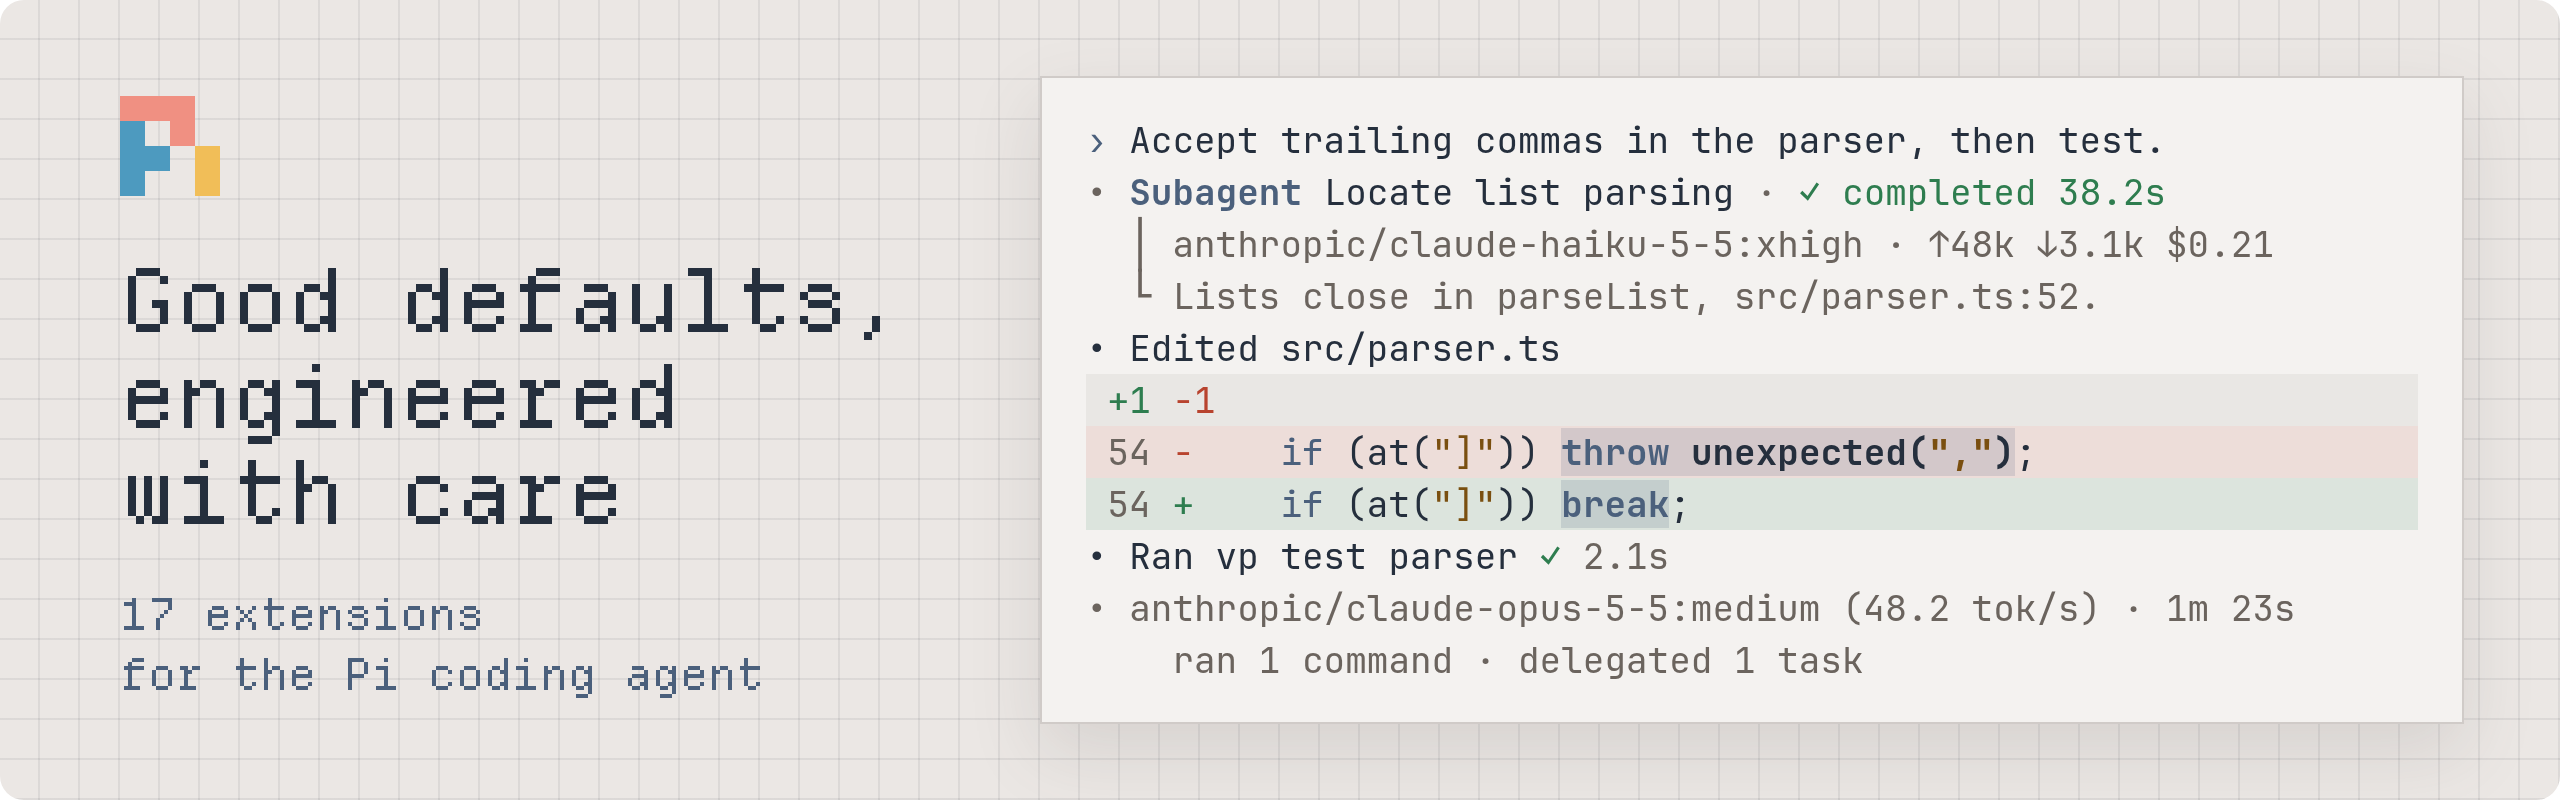
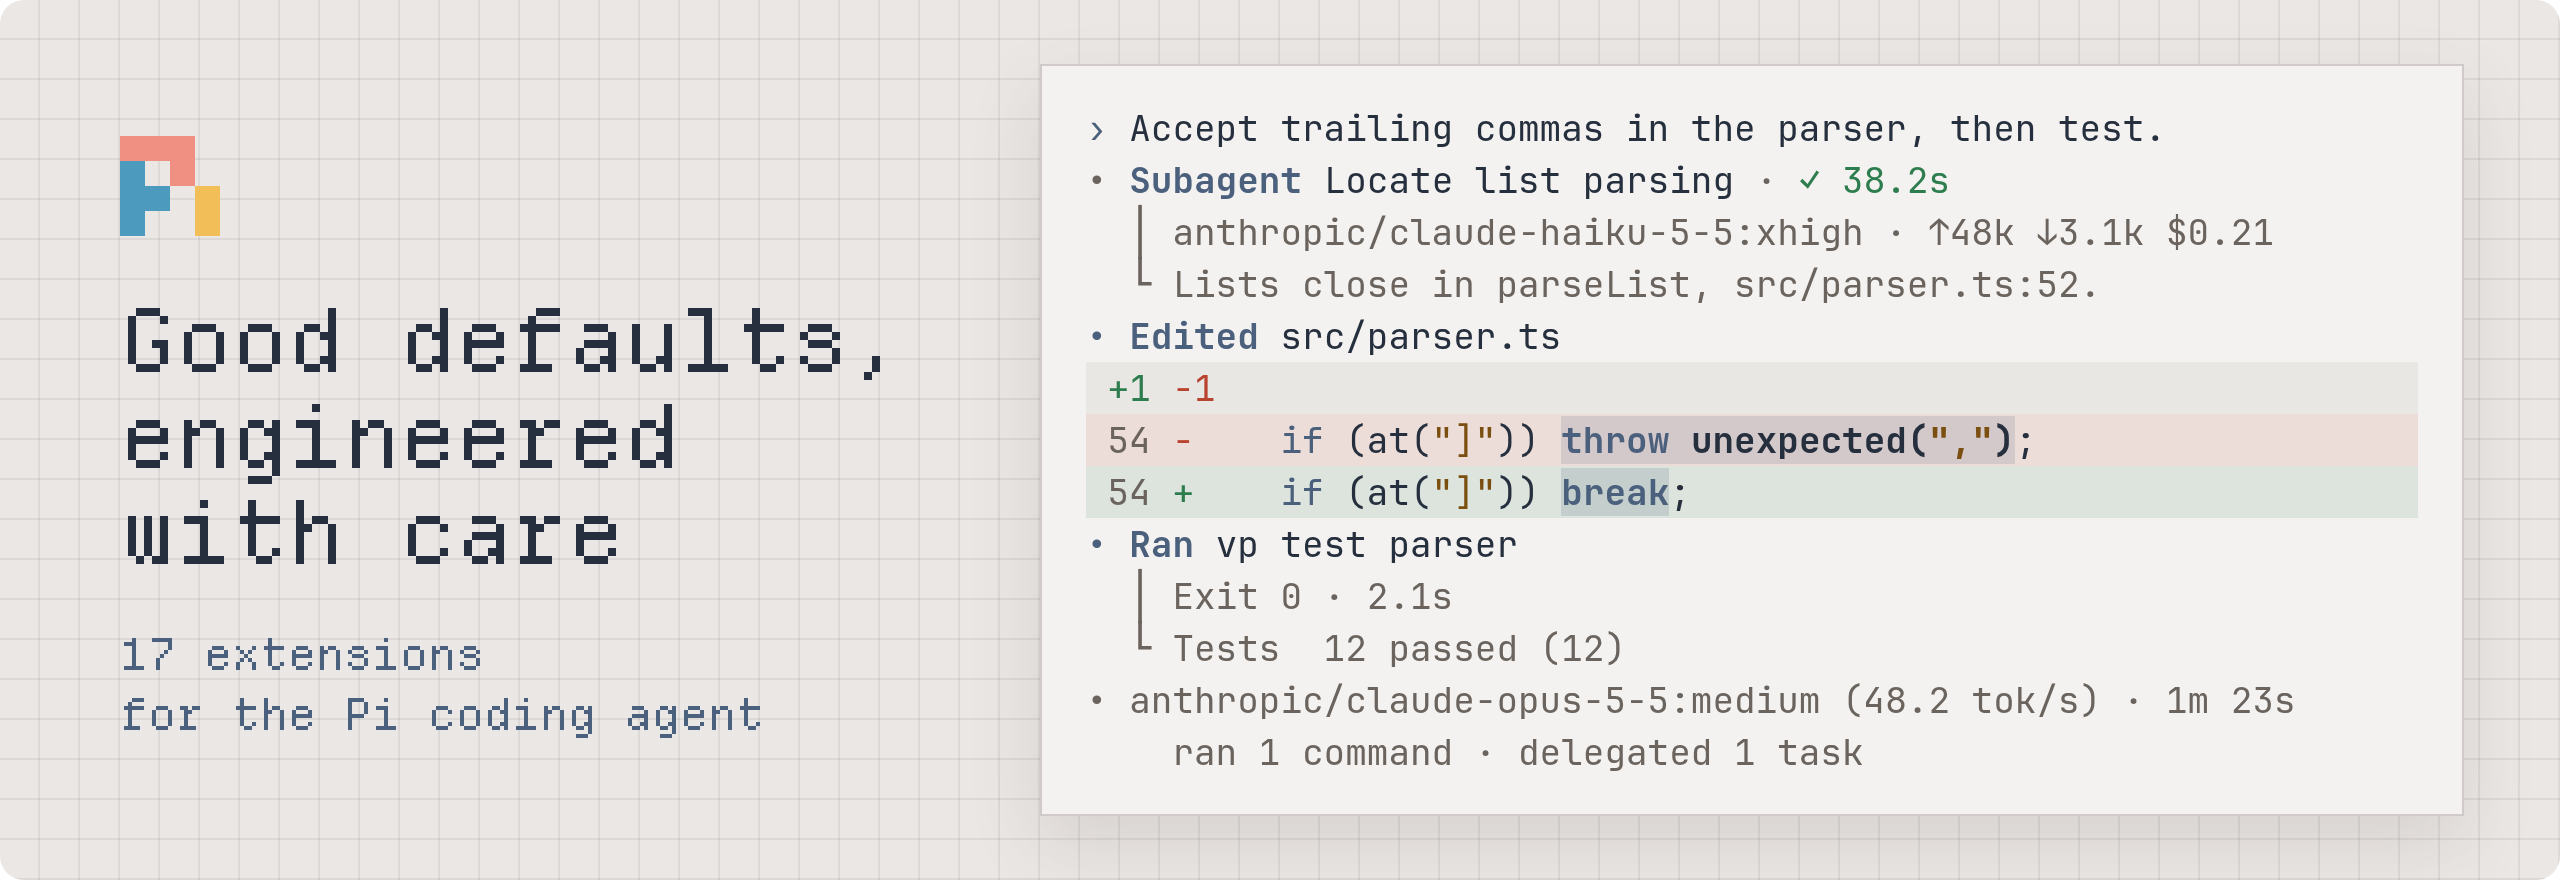
fix(website): emit the dark theme colour and show current output
- Both `theme-color` tags are emitted after `<HeadContent />`.
- The hero samples and extension examples show current output, and both hero images are regenerated.
- The shell-highlight background uses `bg-bg/40` for 5:1 contrast.

diff --git a/docs/assets/hero.html b/docs/assets/hero.html
@@ -5,7 +5,7 @@
 
   for theme in dark light; do
     google-chrome --headless=new --hide-scrollbars --force-device-scale-factor=2 \
-      --window-size=1280,400 --default-background-color=00000000 \
+      --window-size=1280,440 --default-background-color=00000000 \
       --screenshot="docs/assets/hero-$theme.png" "file://$PWD/docs/assets/hero.html?theme=$theme"
   done
 
@@ -80,7 +80,7 @@
       .banner {
         position: relative;
         width: 1280px;
-        height: 400px;
+        height: 440px;
         overflow: hidden;
         border-radius: 12px;
         color: var(--ink);
@@ -120,7 +120,7 @@
 
       .session {
         position: absolute;
-        top: 38px;
+        top: 32px;
         left: 520px;
         width: 712px;
         background: var(--panel);
@@ -190,11 +190,13 @@
 
       <div class="session">
         <pre><span class="accent">›</span> Accept trailing commas in the parser, then test.
-<span class="dim">•</span> <b class="accent">Subagent</b> Locate list parsing<span class="dim"> · </span><span class="add">✓ completed 38.2s</span>
+<span class="dim">•</span> <b class="accent">Subagent</b> Locate list parsing<span class="dim"> · </span><span class="add">✓ 38.2s</span>
 <span class="dim">  │ anthropic/claude-haiku-5-5:xhigh · ↑48k ↓3.1k $0.21</span>
 <span class="dim">  └ Lists close in parseList, src/parser.ts:52.</span>
-• Edited src/parser.ts
-<span class="diff"><span class="add">+1</span> <span class="del">-1</span></span><span class="diff removed"><span class="dim">54</span> <span class="del">-</span>    <span class="accent">if</span> (at(<span class="string">"]"</span>)) <span class="change"><span class="accent">throw</span> unexpected(<span class="string">","</span>)</span>;</span><span class="diff added"><span class="dim">54</span> <span class="add">+</span>    <span class="accent">if</span> (at(<span class="string">"]"</span>)) <span class="change"><span class="accent">break</span></span>;</span>• Ran vp test parser <span class="add">✓</span> <span class="dim">2.1s</span>
+<span class="accent">•</span> <b class="accent">Edited</b> src/parser.ts
+<span class="diff"><span class="add">+1</span> <span class="del">-1</span></span><span class="diff removed"><span class="dim">54</span> <span class="del">-</span>    <span class="accent">if</span> (at(<span class="string">"]"</span>)) <span class="change"><span class="accent">throw</span> unexpected(<span class="string">","</span>)</span>;</span><span class="diff added"><span class="dim">54</span> <span class="add">+</span>    <span class="accent">if</span> (at(<span class="string">"]"</span>)) <span class="change"><span class="accent">break</span></span>;</span><span class="accent">•</span> <b class="accent">Ran</b> vp test parser
+<span class="dim">  │ Exit 0 · 2.1s</span>
+<span class="dim">  └ Tests  12 passed (12)</span>
 <span class="dim">• anthropic/claude-opus-5-5:medium (48.2 tok/s) · 1m 23s</span>
 <span class="dim">    ran 1 command · delegated 1 task</span></pre>
       </div>

diff --git a/apps/website/src/routes/index.tsx b/apps/website/src/routes/index.tsx
@@ -197,13 +197,16 @@ function GetStarted() {
         <SectionHeading title="Get started">
           Install the extensions as they are, or clone the workspace to change them.
         </SectionHeading>
-        <ol className="mt-12">
-          <Step number={1} title="Install" code={`pi install ${releaseSource}`}>
+        <ul className="mt-12">
+          <Step title="Install" code={`pi install ${releaseSource}`}>
             Installs every extension from the release branch as one Pi package. To load only some,
             turn the others off with pi config.
           </Step>
+        </ul>
+        <p className="mt-12 text-sm leading-6 text-dim">Or, to change them:</p>
+        <ol className="mt-4">
           <Step
-            number={2}
+            number={1}
             title="Make it your own"
             code={`git clone ${repositoryUrl}.git\ncd pi-mono\nvp install --frozen-lockfile`}
           >
@@ -214,7 +217,7 @@ function GetStarted() {
             and the <ExternalLink href="https://viteplus.dev/guide/">Vite+ CLI</ExternalLink> (vp).
           </Step>
           <Step
-            number={3}
+            number={2}
             title="Load your copy"
             code={
               "vp exec pi \\\n  -e ./packages/extensions/pi-tool-display \\\n  -e ./packages/extensions/pi-agent-summary"
@@ -238,14 +241,16 @@ function Step({
   code,
   children
 }: {
-  number: number;
+  number?: number;
   title: string;
   code: string;
   children: ReactNode;
 }) {
   return (
     <li className="grid gap-4 border-t border-panel-line py-8 lg:grid-cols-[3rem_minmax(0,2fr)_minmax(0,3fr)] lg:gap-8">
-      <span className="font-pixel text-[22px] leading-[24px] text-sub">0{number}</span>
+      <span className="font-pixel text-[22px] leading-[24px] text-sub">
+        {number === undefined ? null : `0${number}`}
+      </span>
       <div>
         <h3 className="font-bold text-ink">{title}</h3>
         <p className="mt-2 text-sm leading-6 text-dim">{children}</p>

diff --git a/apps/website/src/components/session-panel.tsx b/apps/website/src/components/session-panel.tsx
@@ -17,13 +17,16 @@ export function SessionPanel() {
           <div>
             <span className="text-dim">•</span> <b className="text-accent">Subagent</b> Locate list
             parsing<span className="text-dim"> · </span>
-            <span className="text-add">✓ completed 38.2s</span>
+            <span className="text-add">✓ 38.2s</span>
           </div>
           <div className="text-dim">
             {"  │ anthropic/claude-haiku-5-5:xhigh · ↑48k ↓3.1k $0.21"}
           </div>
           <div className="text-dim">{"  └ Lists close in parseList, src/parser.ts:52."}</div>
-          <div>• Edited src/parser.ts</div>
+          <div>
+            <span className="text-accent">•</span> <b className="text-accent">Edited</b>{" "}
+            src/parser.ts
+          </div>
           <DiffRow tint="bg-dim/8">
             <span className="text-add">+1</span> <span className="text-del">-1</span>
           </DiffRow>
@@ -44,9 +47,10 @@ export function SessionPanel() {
             ;
           </DiffRow>
           <div>
-            • Ran vp test parser <span className="text-add">✓</span>{" "}
-            <span className="text-dim">2.1s</span>
+            <span className="text-accent">•</span> <b className="text-accent">Ran</b> vp test parser
           </div>
+          <div className="text-dim">{"  │ Exit 0 · 2.1s"}</div>
+          <div className="text-dim">{"  └ Tests  12 passed (12)"}</div>
           <div className="text-dim">• anthropic/claude-opus-5-5:medium (48.2 tok/s) · 1m 23s</div>
           <div className="text-dim">{"    ran 1 command · delegated 1 task"}</div>
         </div>
@@ -65,7 +69,7 @@ function Code({ children }: { children: ReactNode }) {
   return (
     <>
       <Keyword>if</Keyword> (at(<span className="text-string">"]"</span>)){" "}
-      <span className="bg-accent/16 font-bold">{children}</span>
+      <span className="bg-bg/40 font-bold">{children}</span>
     </>
   );
 }

diff --git a/apps/website/src/routes/__root.tsx b/apps/website/src/routes/__root.tsx
@@ -23,16 +23,6 @@ export const Route = createRootRoute({
       {
         name: "description",
         content: `${extensionCount} extensions for the Pi coding agent: compact tool cards, subagents, self-compaction, profiles, and guards against small mistakes.`
-      },
-      {
-        name: "theme-color",
-        media: "(prefers-color-scheme: dark)",
-        content: "#161d27"
-      },
-      {
-        name: "theme-color",
-        media: "(prefers-color-scheme: light)",
-        content: "#ebe7e4"
       }
     ],
     links: [
@@ -55,6 +45,8 @@ function RootDocument({ children }: { children: ReactNode }) {
     <html lang="en">
       <head>
         <HeadContent />
+        <meta name="theme-color" media="(prefers-color-scheme: dark)" content="#161d27" />
+        <meta name="theme-color" media="(prefers-color-scheme: light)" content="#ebe7e4" />
       </head>
       <body>
         {children}

diff --git a/apps/website/src/extensions.ts b/apps/website/src/extensions.ts
@@ -132,7 +132,7 @@ export const extensionGroups: ExtensionGroup[] = [
           'Drops optional tool arguments that a model sent as the text "null", so Pi doesn\'t reject the call.',
         sample: {
           kind: "output",
-          text: 'Validation failed for tool "subagent":\n  - thinking: must be equal to one of the allowed values'
+          text: 'Validation failed for tool "subagent":\n  - thinking: expected one of ["off","minimal","low","medium","high","xhigh","max"]'
         }
       }
     ]
